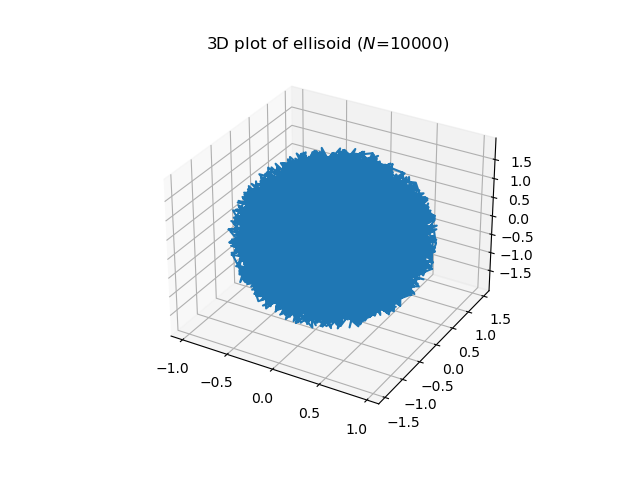
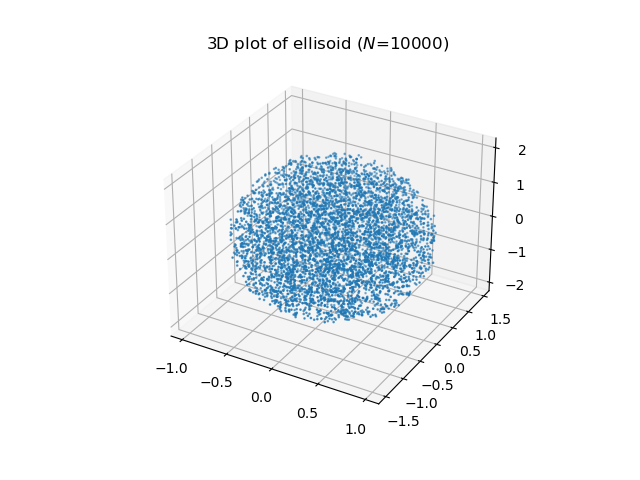
changed ellipsoid plot to scatter variant

diff --git a/project/monte-carlo/volume3d.py b/project/monte-carlo/volume3d.py
@@ -11,6 +11,6 @@ x, y, z = ellipsoid_volume(10000, a, b, c)
 # Plotting volume of ellipsoid
 fig = plt.figure()
 ax = plt.axes(projection='3d')
-ax.plot3D(x, y, z)
+ax.scatter3D(x, y, z, s=0.8)
 ax.set_title('3D plot of ellisoid ($N$=10000)')
 plt.show()
